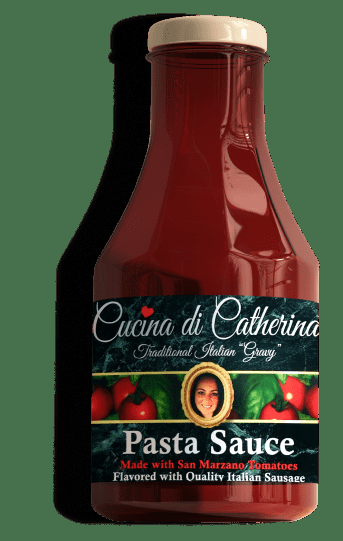
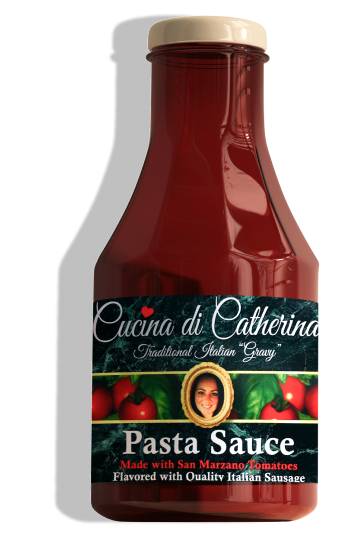
Upload css

diff --git a/index.html b/index.html
@@ -70,13 +70,18 @@
             </li>
           </ul>
         </div>
-        <img
-          class="hero-img"
-          src="./images/hero-img.png"
-          alt="ketchup-bottle"
-          width="432"
-          height="577"
-        />
+        <div class="hero-img-wrap">
+          <svg class="hero-img-icon">
+            <use href="icon-Frame-76-1"></use>
+          </svg>
+          <img
+            class="hero-img"
+            src="./images/hero-img.png"
+            alt="ketchup-bottle"
+            width="305"
+            height="535"
+          />
+        </div>
         <ul class="hero-social-links list">
           <li>
             <a href="" class="social-link link">

diff --git a/css/styles.css b/css/styles.css
@@ -210,6 +210,9 @@ body {
   line-height: calc(39 / 32);
 }
 
+.hero-img-icon {
+  fill: #f3f3f3;
+}
 .hero-img {
   margin-right: 50px;
 }
